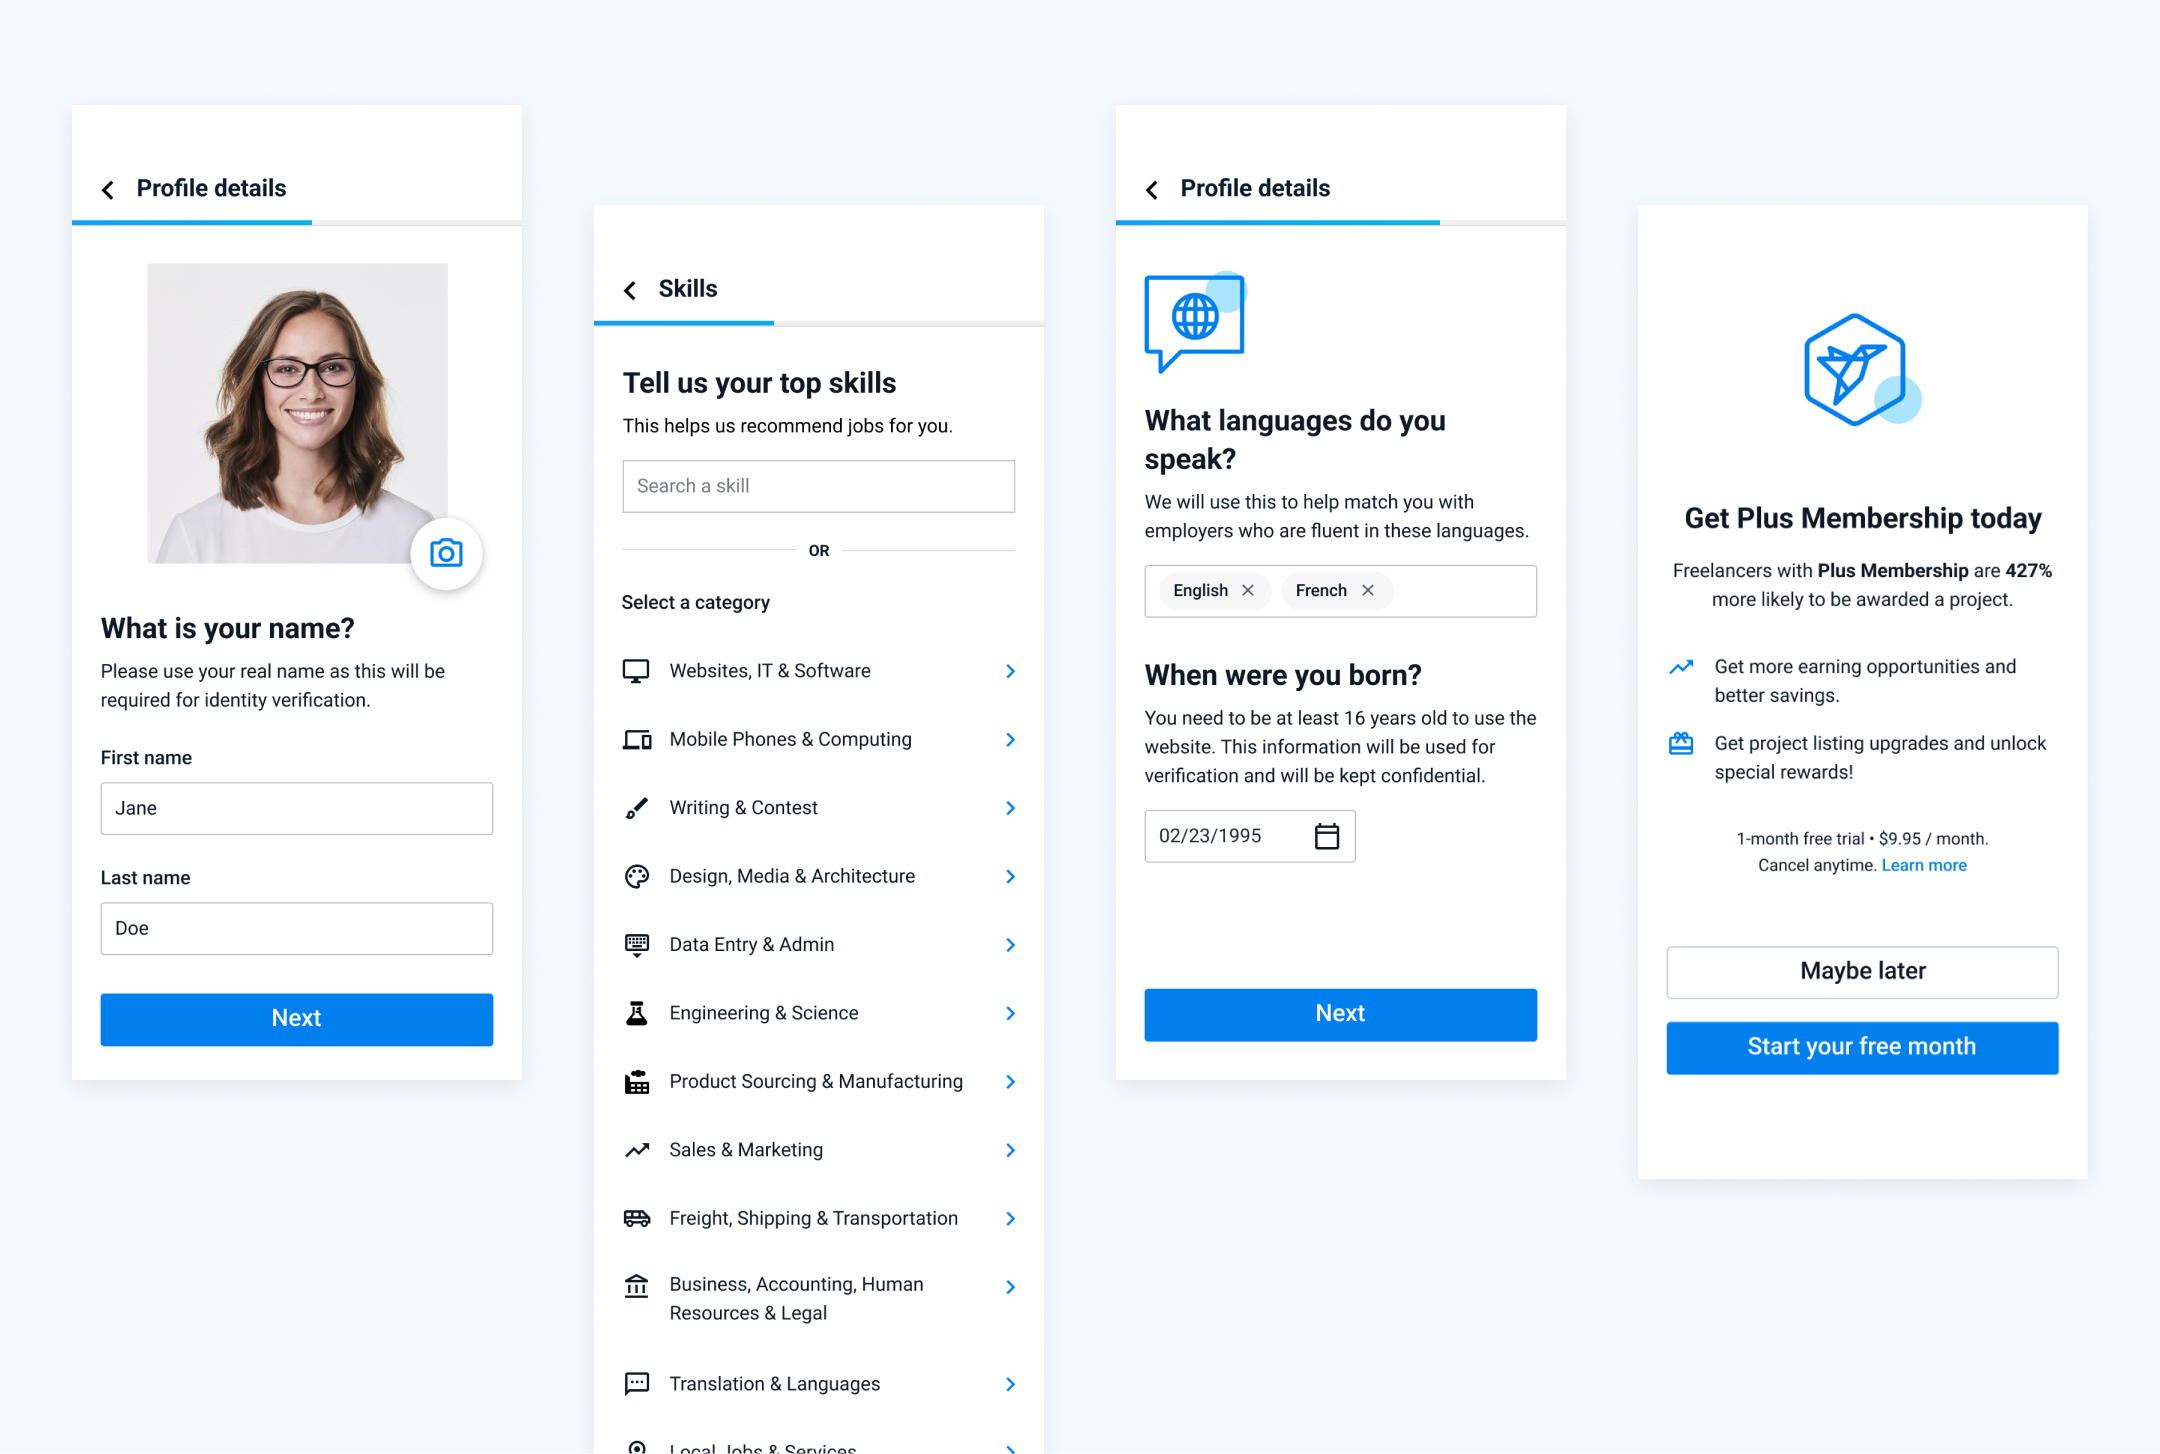
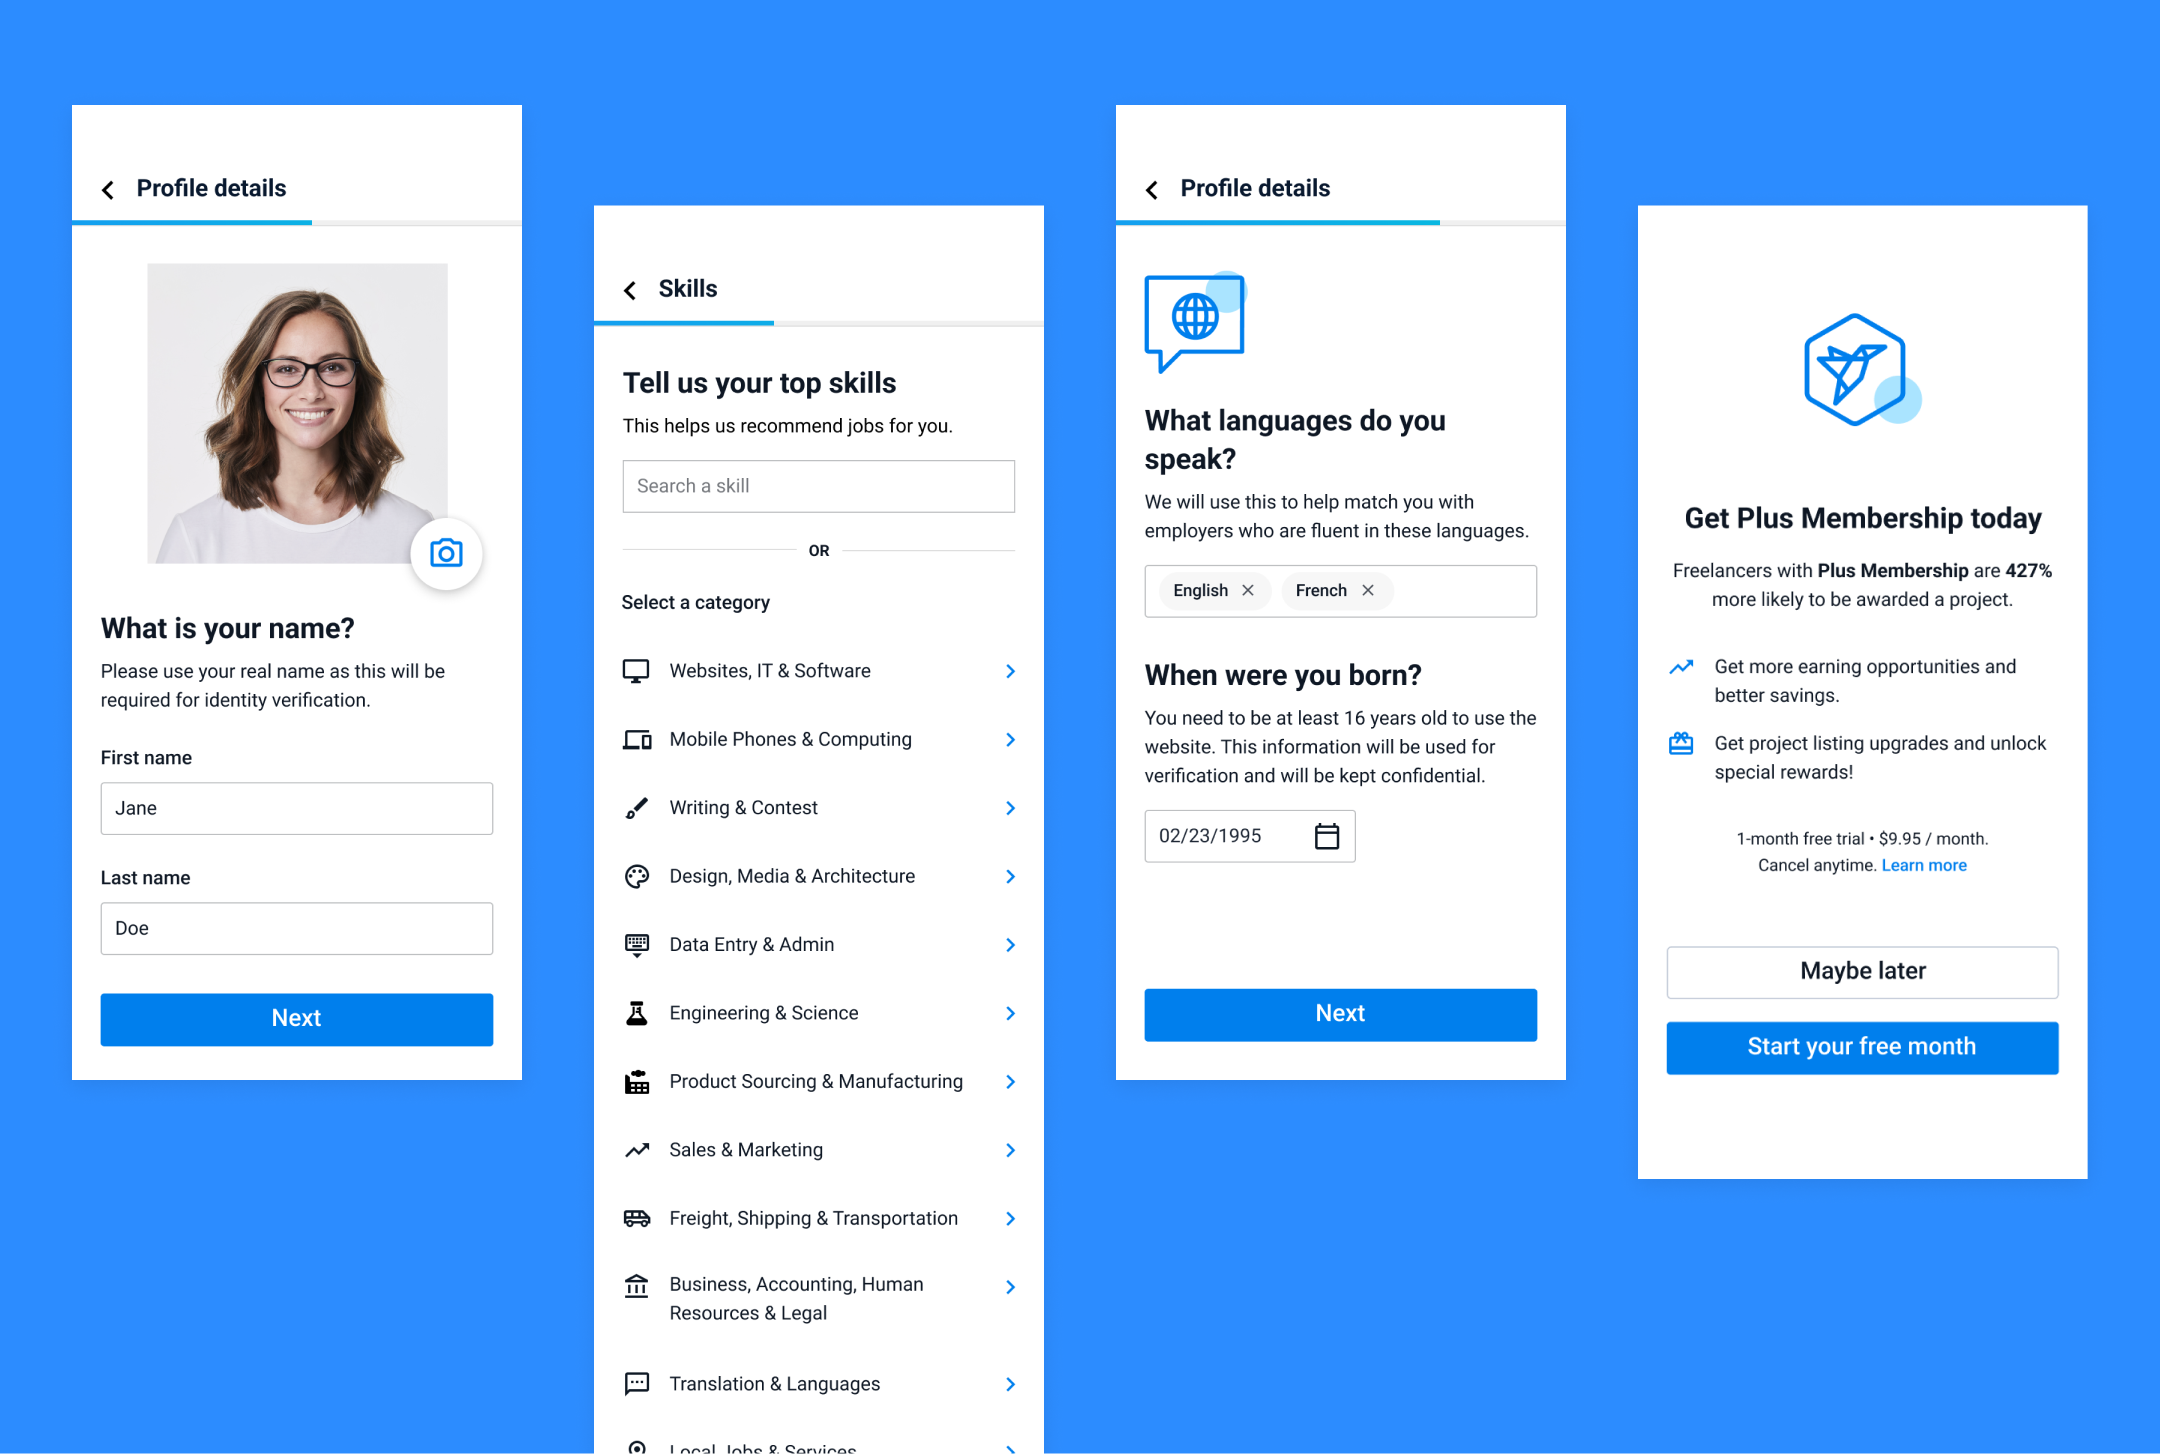
update fln design system case study

diff --git a/product-design-system.html b/product-design-system.html
@@ -4,7 +4,7 @@
   <meta charset="UTF-8" />
   <meta name="viewport" content="width=device-width, initial-scale=1.0" />
   <meta name="author" content="Christine Uy" />
-  <meta name="description" content="Case Study: Building a scalable design system for a marketplace used by 80 million users around the world." />
+  <meta name="description" content="Case Study: Building a scalable design system for Freelancer.com, a marketplace used by 80 million users around the world." />
   <link rel="icon" href="/favicon.ico" sizes="any">
   <link rel="icon" href="/favicon.svg" type="image/svg+xml">
   <link rel="apple-touch-icon" href="/apple-touch-icon.png">
@@ -151,7 +151,11 @@
             <li>Product teams moved quickly without scalable UI governance</li>
             <li>Misalignment between design and production - there's a lack of various states, behaviours, and use cases.</li>
           </ul>
-
+          <figure class="case-content-media case-content-media--captioned">
+            <img src="/img/fln/fln-docu-01.png">
+            <figcaption>Sample UI audit of a component and its behaviour.</figcaption>
+          </figure>
+          
         </div>
       </div>
 
@@ -164,9 +168,16 @@
           <p>I mapped the system from foundations through component states and patterns, connecting visual choices to the workflows they needed to support. The map <span class="case-content-highlight">aligned design, engineering, and product around what belonged in the system and what remained product-specific.</span></p>
           <p>That structure made Bits easier to navigate, contribute to, and apply consistently across the marketplace.</p>
           <figure class="case-content-media case-content-media--captioned">
-            <img src="/img/fln/fln-mindmap.png" alt="Mind map of the Bits design system architecture">
+            <img src="/img/fln/fln-mindmap.png">
             <figcaption>Mapping the relationships between foundations, components, and patterns.</figcaption>
           </figure>
+
+          <figure class="case-content-media case-content-media--captioned">
+            <img src="/img/fln/fln-docu.png">
+            <figcaption>Shared file within the Product Design team for tracking our UI clean up during the web app migration.</figcaption>
+          </figure>
+
+
         </div>
       </div>
 
@@ -255,6 +266,10 @@
           <figure class="case-content-media case-content-media--captioned">
             <img src="/img/fln/fln-foundations-02.png" alt="Bits foundations documentation" width="auto" height="auto" loading="lazy" decoding="async">
           </figure>   
+
+          <figure class="case-content-media case-content-media--captioned">
+            <img src="/img/fln/fln-foundations-03.png" alt="Bits foundations documentation" width="auto" height="auto" loading="lazy" decoding="async">
+          </figure>   
       </div>
     </div>
 
@@ -268,10 +283,6 @@
           <img src="/img/fln/fln-prot-02.png">
         </figure>
       </div>    
-    
-      <figure class="case-content-bento__item case-content-bento__item--wide">
-        <img src="/img/fln/fln-prot-04.png">
-      </figure>
 
 
       <div class="case-content-bento__row case-content-bento__row--two">
@@ -282,6 +293,21 @@
           <img src="/img/fln/fln-prot-05.png">
         </figure>
       </div>
+
+      <figure class="case-content-bento__item case-content-bento__item--wide">
+        <img src="/img/fln/fln-foundations-04.png">
+      </figure>
+
+      <div class="case-content-bento__row case-content-bento__row--two">
+        <figure class="case-content-bento__item">
+          <img src="/img/fln/fln-prot-04.png">
+        </figure>
+        <figure class="case-content-bento__item">
+          <img src="/img/fln/fln-prot-05.png">
+        </figure>
+      </div>
+
+
     </div>    
 
 
@@ -290,7 +316,7 @@
 
     <section class="impact-metrics impact-metrics--outcomes" id="impact" aria-labelledby="impact-heading">
       <div class="impact-metrics__inner">
-        <div class="impact-metrics__heading"><h2 id="impact-heading">A system that made quality easier to repeat.</h2></div>
+        <div class="impact-metrics__heading"><h2 id="impact-heading">A scalable design system that improved design consistency and accessibility across Freelancer.com family of products.</h2></div>
         <div class="impact-metrics__grid">
           <article class="project-metric"><p class="project-metric__value">45%</p><p class="project-metric__label">Reduction in Design Debt within 1 year</p></article>
           <article class="project-metric"><p class="project-metric__value">6 teams</p><p class="project-metric__label">Global Product Teams Supported</p></article>
